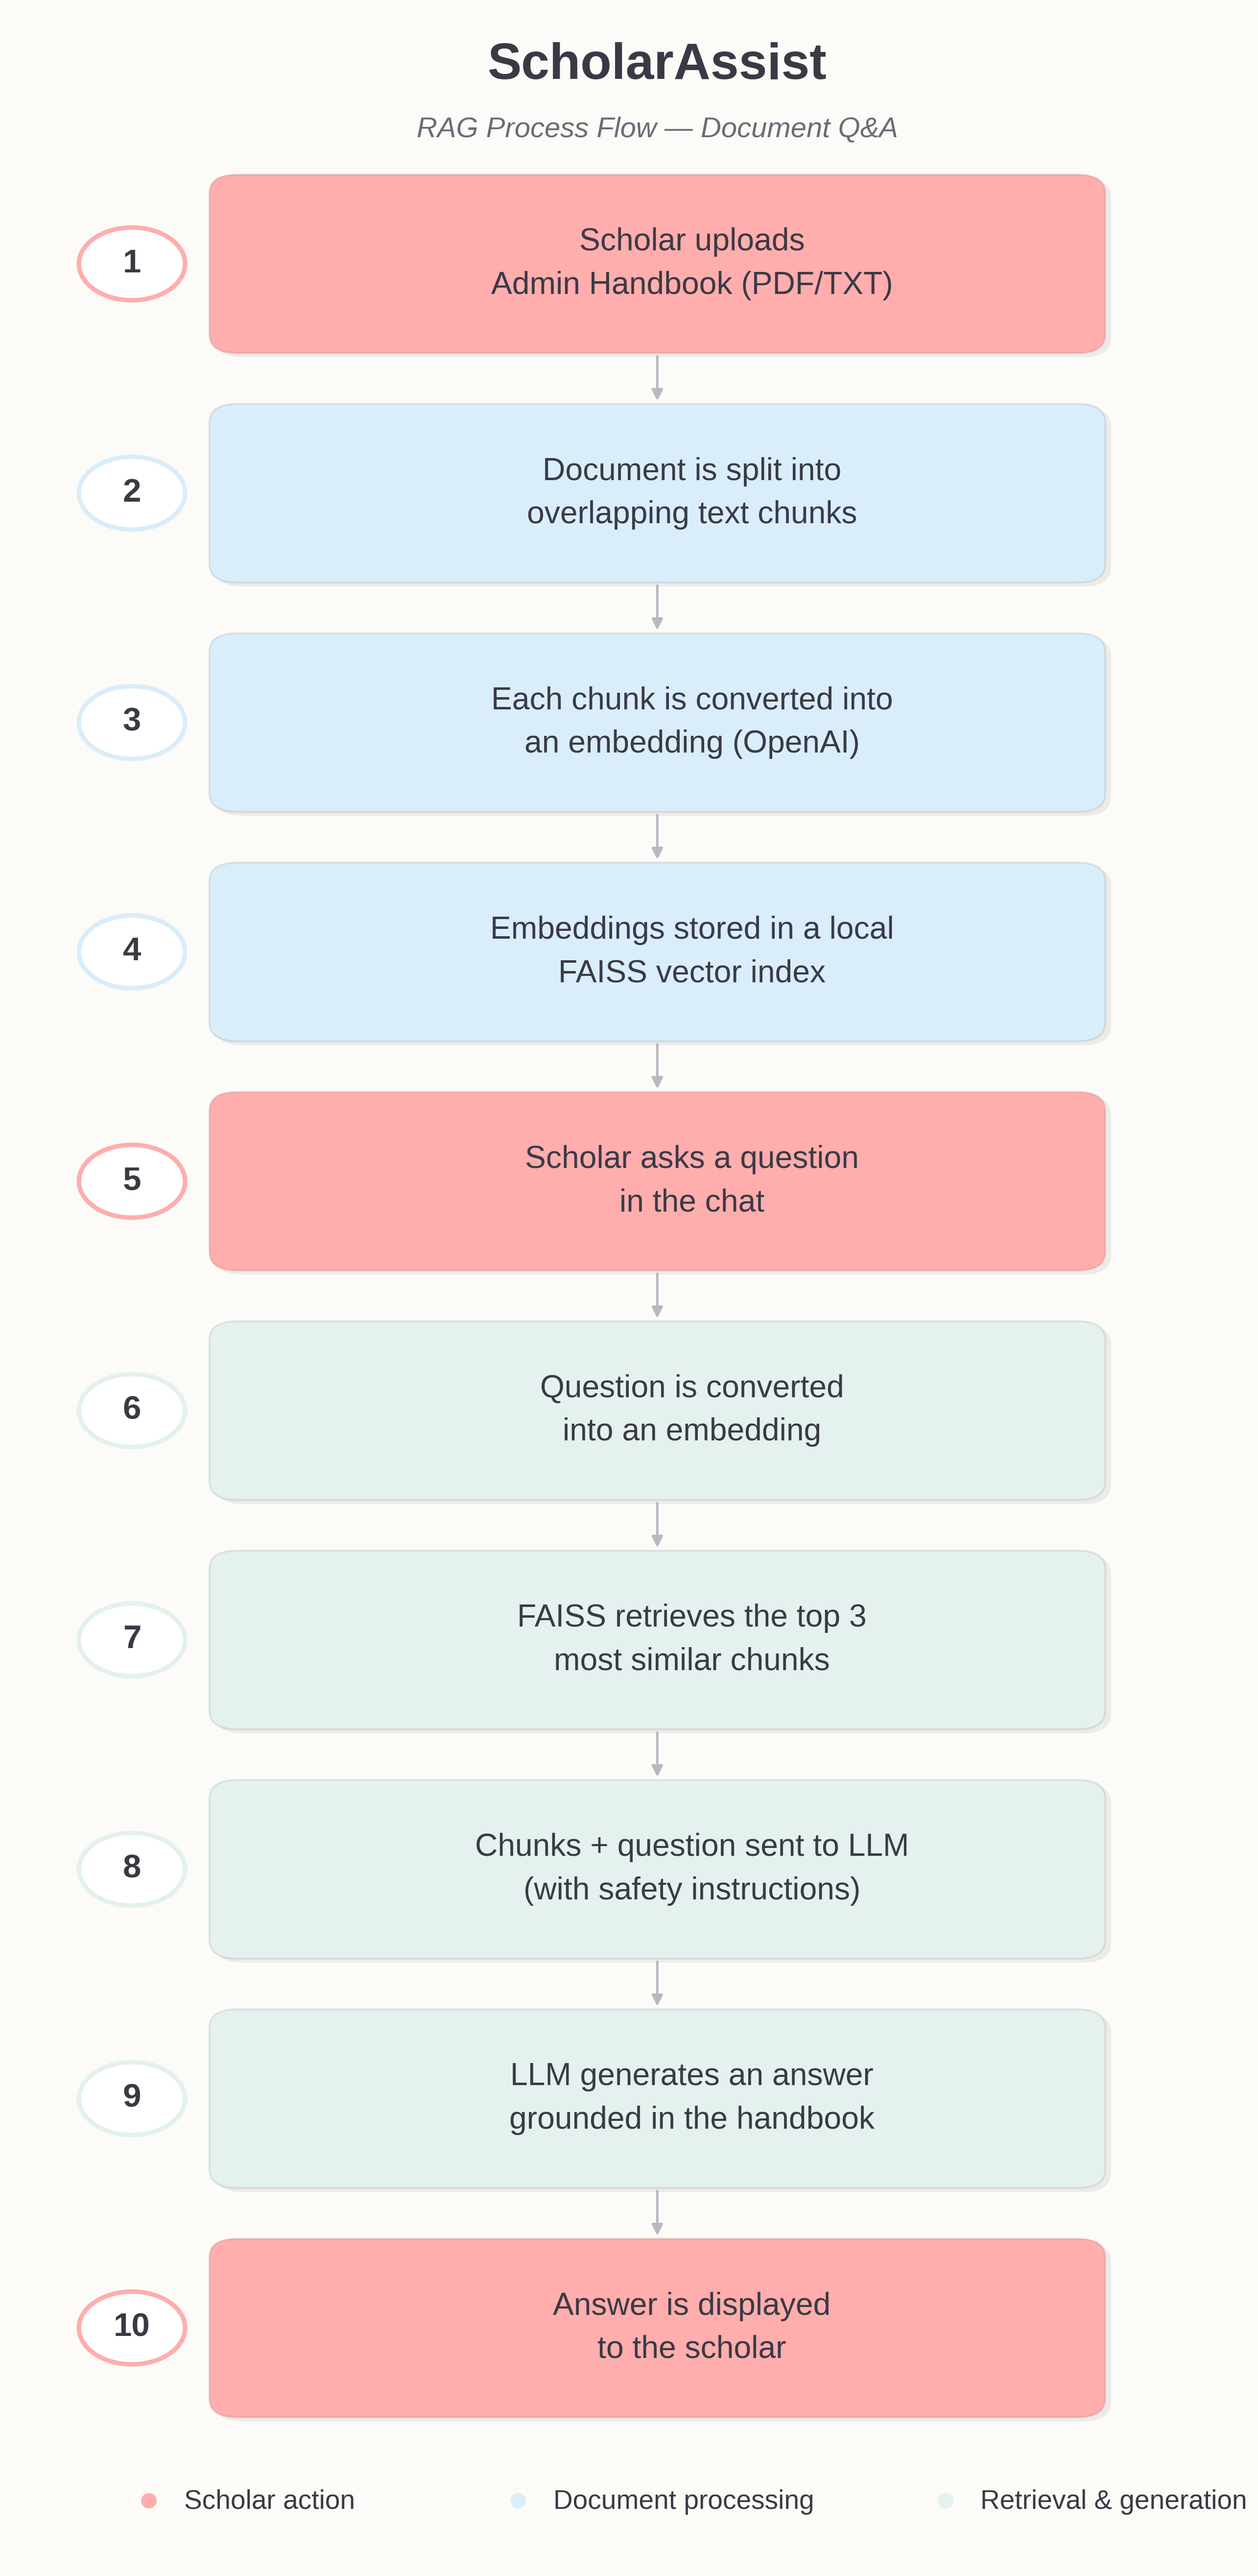
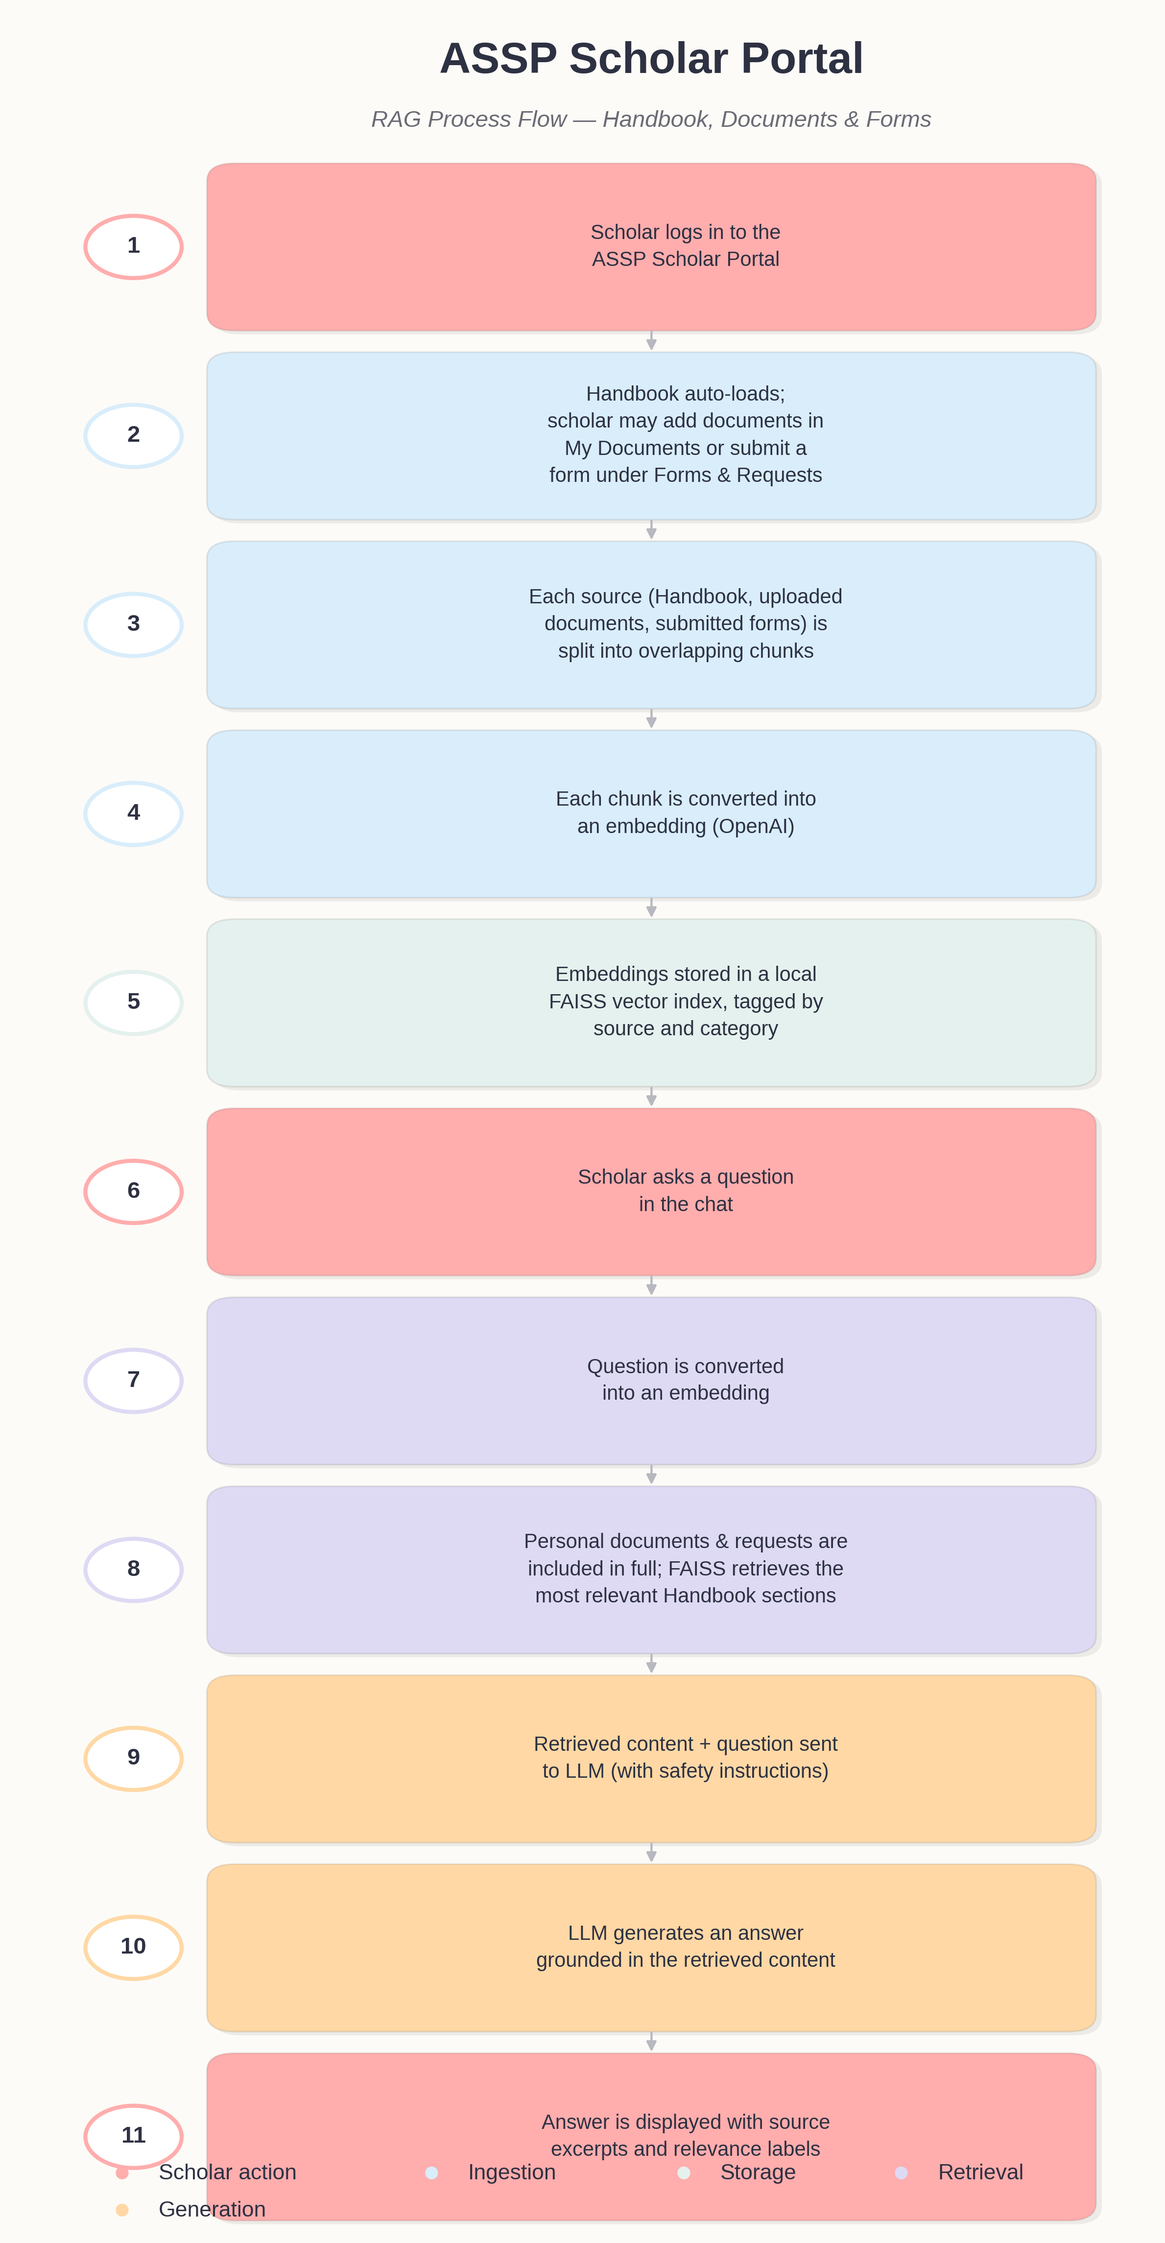
Add full dashboard, forms and requests, updated flowchart

diff --git a/utility.py b/utility.py
@@ -11,15 +11,24 @@ def check_password():
         else:
             st.session_state["password_correct"] = False
 
+    def show_login_branding():
+        st.markdown("""
+        <div style="background:#2D3142;padding:36px 32px;border-radius:16px;margin-bottom:24px;text-align:center;">
+            <h1 style="color:#F4F1EA !important;margin:0;font-size:2.3rem;font-family:'Fraunces',serif;">ASSP Scholar Portal</h1>
+            <p style="color:#C9CDD6;margin:8px 0 0 0;font-family:'Inter',sans-serif;">Sign in to access your scholarship handbook, documents, and more.</p>
+        </div>
+        """, unsafe_allow_html=True)
+
     if "password_correct" not in st.session_state:
+        show_login_branding()
         st.text_input("Username", key="username")
         st.text_input("Password", type="password", key="password", on_change=password_entered)
         return False
     elif not st.session_state["password_correct"]:
+        show_login_branding()
         st.text_input("Username", key="username")
         st.text_input("Password", type="password", key="password", on_change=password_entered)
         st.error("Wrong username or password")
         return False
     else:
         return True
-    
